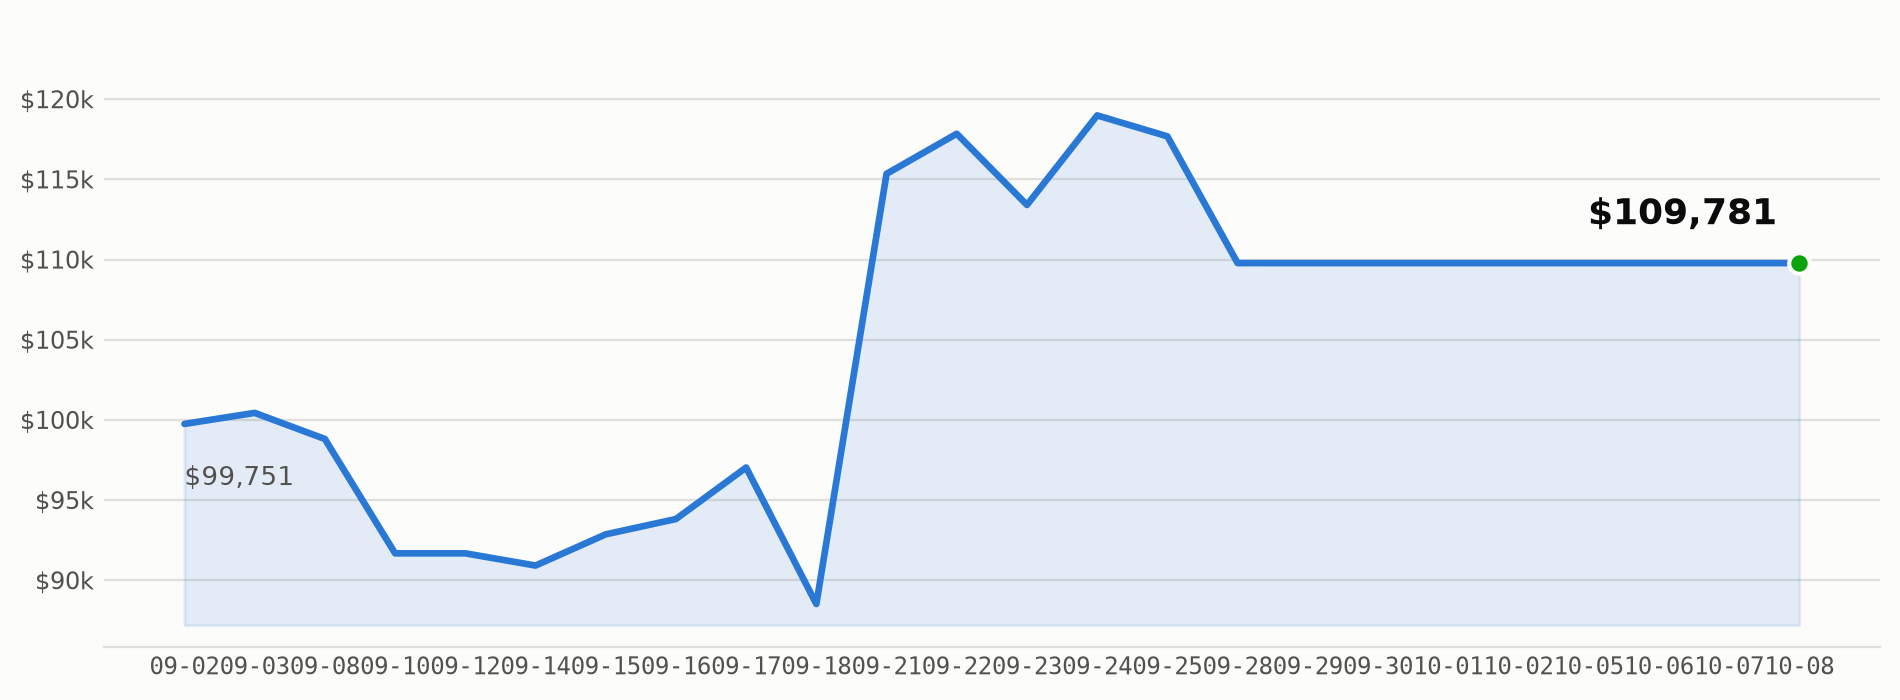
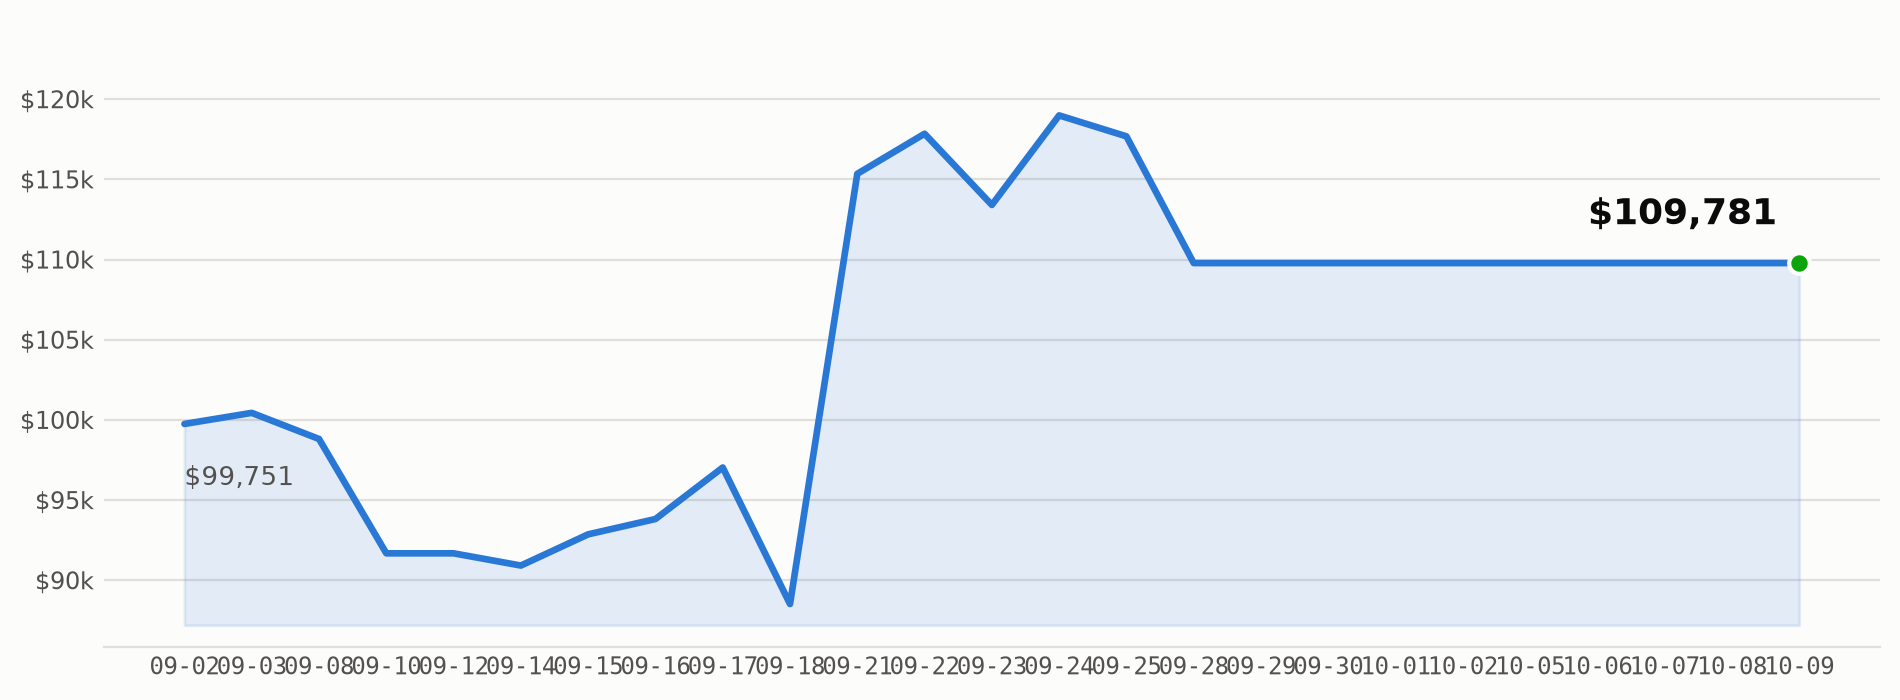
Daily dashboard update for 2026-10-09
Automated commit from scripts/daily_run.py after the market-close run.

Changed region(s): [[0.2484, 0.15, 0.6521, 0.87], [0.0932, 0.93, 0.9316, 0.99], [0.1553, 0.6, 0.2174, 0.81]]

diff --git a/README.md b/README.md
@@ -12,7 +12,7 @@ An autonomous AI trading agent for Alpaca's **Options Alpha** hackathon track.
 </p>
 
 <p align="center">
-  <img src="docs/equity_curve.png?v=2026-10-08-109781" alt="AlphaCa account equity over time, currently $109,781" width="800">
+  <img src="docs/equity_curve.png?v=2026-10-09-109781" alt="AlphaCa account equity over time, currently $109,781" width="800">
 </p>
 <!-- PNL_DASHBOARD_END -->
 
